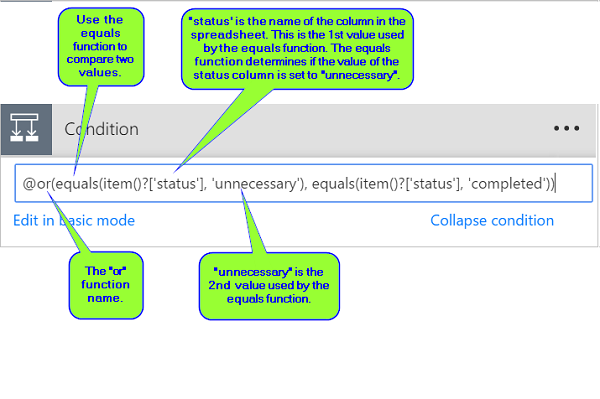
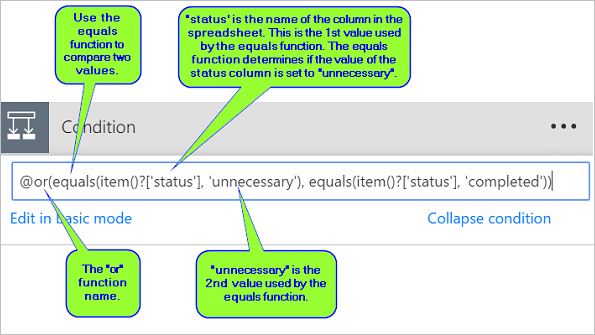
clean up images and ensure all images display

diff --git a/articles/use-functions-in-conditions.md b/articles/use-functions-in-conditions.md
@@ -209,9 +209,9 @@ Let's create the flow.
 
 The flow runs after you save it. If you created the spreadsheet shown earlier in this walkthrough, here's what the it looks like after the run completes:
 
-    ![or function completes](./media/use-functions-in-conditions/spreadsheet-table-after-or-function-runs.png)
+![or function completes](./media/use-functions-in-conditions/spreadsheet-table-after-or-function-runs.png)
 
-    Notice all rows that had "completed" or "unnecessary" in the Status column were deleted.
+    Notice all data from rows that had "completed" or "unnecessary" in the Status column were deleted.
 
 ## Use the and function
 
@@ -221,17 +221,17 @@ Assume you have a spreadsheet table with two columns. The column names are Statu
 
 Your **Condition** card resembles this image:
 
-    ![and function image](./media/use-functions-in-conditions/and-function.png)
+![and function image](./media/use-functions-in-conditions/and-function.png)
 
 ### Run the flow with the and function
 
 If you followed along, your spreadsheet resembles this image:
 
-    ![before and runs](./media/use-functions-in-conditions/spreadsheet-table-before-and-function-runs.png)
+![before and runs](./media/use-functions-in-conditions/spreadsheet-table-before-and-function-runs.png)
 
 After your flow runs, your spreadsheet resembles this image:
 
-    ![after and runs](./media/use-functions-in-conditions/spreadsheet-table-after-and-function-runs.png)
+![after and runs](./media/use-functions-in-conditions/spreadsheet-table-after-and-function-runs.png)
 
 ## Use the empty function
 
@@ -243,11 +243,11 @@ To accomplish this task, follow all steps listed in **Use the and function** sec
 
 Your **Condition** card resembles this image:
 
-    ![and function image](./media/use-functions-in-conditions/empty-function.png)
+![and function image](./media/use-functions-in-conditions/empty-function.png)
 
 After your flow runs, the spreadsheet resembles this image:
 
-    ![after and runs](./media/use-functions-in-conditions/spreadsheet-table-after-empty-function-runs.png)
+![after and runs](./media/use-functions-in-conditions/spreadsheet-table-after-empty-function-runs.png)
 
     Notice extra lines are removed from the table.
 
@@ -259,7 +259,7 @@ Use the **greater** function to identify the employees who haven't paid the full
 
 Here's a view of the spreadsheet:
 
-    ![view of spreadsheet](./media/use-functions-in-conditions/tickets-spreadsheet-table.png)
+![view of spreadsheet](./media/use-functions-in-conditions/tickets-spreadsheet-table.png)
 
 Here's the implementation of the **greater** function that identifies all persons who have paid less than the amount due from them:
 
@@ -295,7 +295,7 @@ Use the **greater** function to identify the employees who have paid less than t
 
 Here's a view of the spreadsheet table:
 
-    ![view of spreadsheet](./media/use-functions-in-conditions/spreadsheet-table-due-date.png)
+![view of spreadsheet](./media/use-functions-in-conditions/spreadsheet-table-due-date.png)
 
 Here's the implementation of the **and** function that identifies all persons who have paid less than the amount due from them and the due date is less than one day away from the current date:
 
